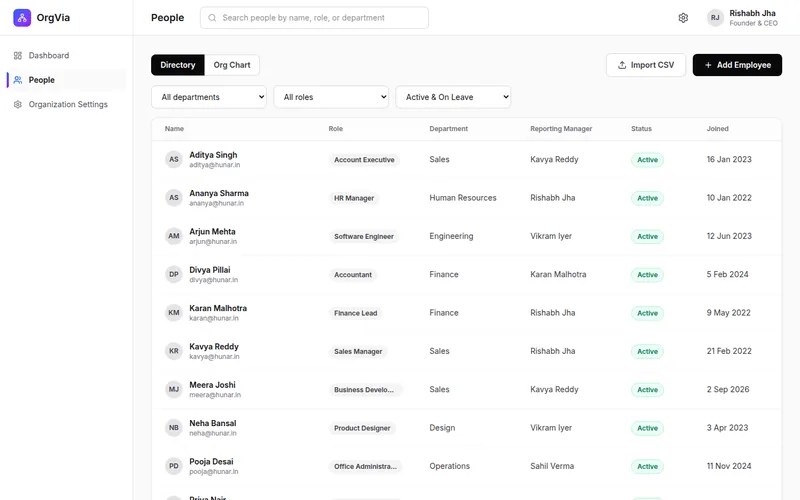
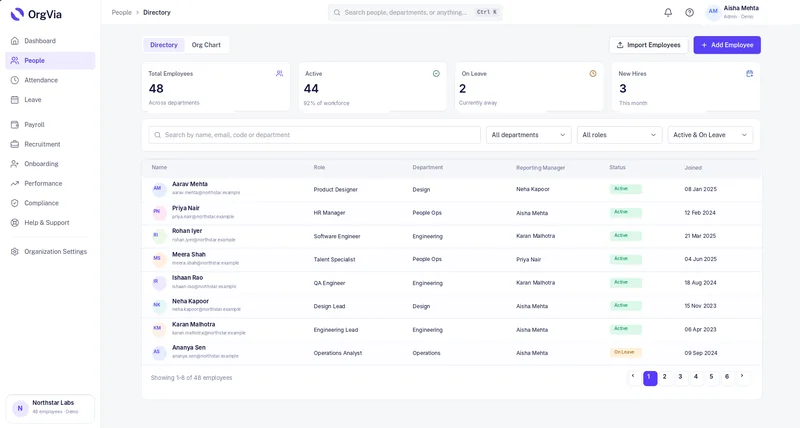
Use Northstar demo screenshots in product tour; drop outdated org chart tab

diff --git a/dist/index.html b/dist/index.html
@@ -31,7 +31,7 @@
     <p class="hero-note">Real product screens below, shown with demonstration data.</p>
   </div>
   <div class="hero-shot">
-    <figure class="frame"><div class="frame-bar" aria-hidden="true"><i></i><i></i><i></i><span>orgvia / people</span></div><img src="/assets/img/directory-1440.webp" srcset="/assets/img/directory-800.webp 800w, /assets/img/directory-1440.webp 1440w" sizes="(min-width: 1060px) 58vw, 100vw" width="1440" height="900" alt="OrgVia people directory listing employees with role, department, reporting manager, status and join date" fetchpriority="high"></figure>
+    <figure class="frame"><div class="frame-bar" aria-hidden="true"><i></i><i></i><i></i><span>orgvia / people</span></div><img src="/assets/img/directory-1440.webp" srcset="/assets/img/directory-800.webp 800w, /assets/img/directory-1440.webp 1440w" sizes="(min-width: 1060px) 58vw, 100vw" width="1440" height="770" alt="OrgVia people directory with headcount cards, filters and an employee table" fetchpriority="high"></figure>
     <div class="hero-chip" aria-hidden="true"><img src="/assets/img/mobile.webp" alt="" width="780" height="800" loading="lazy"></div>
   </div>
 </div>
@@ -44,19 +44,17 @@
 
 <section class="section tour" id="tour"><div class="wrap">
   <div class="section-head"><div><p class="kicker" data-reveal>The product</p><h2 class="title" data-reveal style="--d:.05s">See the work <em>itself</em>, not an illustration.</h2></div>
-  <p class="lede" data-reveal style="--d:.1s">These are screens from the OrgVia web app. Pick a view to look at it properly.</p></div>
+  <p class="lede" data-reveal style="--d:.1s">Screens from the OrgVia web app, shown with fictional demo records. Pick a view to look at it properly.</p></div>
   <div class="tour-grid" data-tabs data-reveal>
     <div class="tabs" role="tablist" aria-label="Product views">
       <button class="tab" role="tab" id="t1" aria-controls="p1"><b data-n="01">People directory</b><span>Search and filter by department, role and status. Open any profile from the list.</span></button>
-      <button class="tab" role="tab" id="t2" aria-controls="p2"><b data-n="02">Org chart</b><span>Reporting lines drawn from the same records, so structure never lives in a separate slide.</span></button>
-      <button class="tab" role="tab" id="t3" aria-controls="p3"><b data-n="03">Dashboard</b><span>Headcount, who is active or on leave, and one-tap clock-in for the signed-in employee.</span></button>
-      <button class="tab" role="tab" id="t4" aria-controls="p4"><b data-n="04">CSV import</b><span>Bring an existing employee list in without retyping it.</span></button>
+      <button class="tab" role="tab" id="t2" aria-controls="p2"><b data-n="02">Dashboard</b><span>Headcount, today’s attendance breakdown, pending actions, department overview and clock-in.</span></button>
+      <button class="tab" role="tab" id="t3" aria-controls="p3"><b data-n="03">CSV import</b><span>Bring an existing employee list in without retyping it.</span></button>
     </div>
     <div class="panels">
-      <div class="panel" role="tabpanel" id="p1" aria-labelledby="t1"><figure class="frame"><div class="frame-bar" aria-hidden="true"><i></i><i></i><i></i><span>orgvia / people / directory</span></div><img src="/assets/img/directory-1440.webp" srcset="/assets/img/directory-800.webp 800w, /assets/img/directory-1440.webp 1440w" sizes="(min-width: 1060px) 62vw, 100vw" width="1440" height="900" alt="People directory with search, department, role and status filters" loading="lazy" decoding="async"></figure><p class="caption">People directory: name, role, department, reporting manager, status and join date in one list.</p></div>
-      <div class="panel" role="tabpanel" id="p2" aria-labelledby="t2"><figure class="frame"><div class="frame-bar" aria-hidden="true"><i></i><i></i><i></i><span>orgvia / people / org chart</span></div><img src="/assets/img/orgchart-1440.webp" srcset="/assets/img/orgchart-800.webp 800w, /assets/img/orgchart-1440.webp 1440w" sizes="(min-width: 1060px) 62vw, 100vw" width="1440" height="900" alt="Organization chart showing reporting lines between employees" loading="lazy" decoding="async"></figure><p class="caption">Org chart generated from each employee’s reporting manager.</p></div>
-      <div class="panel" role="tabpanel" id="p3" aria-labelledby="t3"><figure class="frame"><div class="frame-bar" aria-hidden="true"><i></i><i></i><i></i><span>orgvia / dashboard</span></div><img src="/assets/img/dashboard-1440.webp" srcset="/assets/img/dashboard-800.webp 800w, /assets/img/dashboard-1440.webp 1440w" sizes="(min-width: 1060px) 62vw, 100vw" width="1440" height="900" alt="Dashboard with total employees, active, on leave and new hires, plus a clock-in panel" loading="lazy" decoding="async"></figure><p class="caption">Dashboard with headcount summary and a clock-in panel.</p></div>
-      <div class="panel" role="tabpanel" id="p4" aria-labelledby="t4"><figure class="frame"><div class="frame-bar" aria-hidden="true"><i></i><i></i><i></i><span>orgvia / people / import</span></div><img src="/assets/img/import-1440.webp" srcset="/assets/img/import-800.webp 800w, /assets/img/import-1440.webp 1440w" sizes="(min-width: 1060px) 62vw, 100vw" width="1440" height="900" alt="Import employees from CSV dialog" loading="lazy" decoding="async"></figure><p class="caption">CSV import for adding many employees at once.</p></div>
+      <div class="panel" role="tabpanel" id="p1" aria-labelledby="t1"><figure class="frame"><div class="frame-bar" aria-hidden="true"><i></i><i></i><i></i><span>orgvia / people / directory</span></div><img src="/assets/img/directory-1440.webp" srcset="/assets/img/directory-800.webp 800w, /assets/img/directory-1440.webp 1440w" sizes="(min-width: 1060px) 62vw, 100vw" width="1440" height="770" alt="People directory with headcount cards, search, filters and employee table" loading="lazy" decoding="async"></figure><p class="caption">People directory with headcount summary, filters and a paginated employee table.</p></div>
+      <div class="panel" role="tabpanel" id="p2" aria-labelledby="t2"><figure class="frame"><div class="frame-bar" aria-hidden="true"><i></i><i></i><i></i><span>orgvia / dashboard</span></div><img src="/assets/img/dashboard-1440.webp" srcset="/assets/img/dashboard-800.webp 800w, /assets/img/dashboard-1440.webp 1440w" sizes="(min-width: 1060px) 62vw, 100vw" width="1440" height="770" alt="Admin dashboard with headcount, today’s attendance, pending actions, department overview and recent activity" loading="lazy" decoding="async"></figure><p class="caption">Admin dashboard: attendance breakdown, check-in panel, pending actions and recent activity.</p></div>
+      <div class="panel" role="tabpanel" id="p3" aria-labelledby="t3"><figure class="frame"><div class="frame-bar" aria-hidden="true"><i></i><i></i><i></i><span>orgvia / people / import</span></div><img src="/assets/img/import-1440.webp" srcset="/assets/img/import-800.webp 800w, /assets/img/import-1440.webp 1440w" sizes="(min-width: 1060px) 62vw, 100vw" width="837" height="523" alt="Import employees dialog for uploading a CSV file" loading="lazy" decoding="async"></figure><p class="caption">CSV import for adding many employees at once.</p></div>
     </div>
   </div>
 </div></section>

diff --git a/dist/product/index.html b/dist/product/index.html
@@ -38,7 +38,7 @@
     <li><b>Administrators</b>: configure the organization and access.</li></ul>
     <p class="notice" style="margin-top:1.4rem">Modules are switched on per organization, so what you see depends on the setup agreed with your administrator.</p></div>
 </div></section>
-<section class="section" style="padding-top:0"><div class="wrap"><figure class="frame"><div class="frame-bar" aria-hidden="true"><i></i><i></i><i></i><span>orgvia / people / org chart</span></div><img src="/assets/img/orgchart-1440.webp" srcset="/assets/img/orgchart-800.webp 800w, /assets/img/orgchart-1440.webp 1440w" sizes="(min-width: 1240px) 1100px, 100vw" width="1440" height="900" alt="Org chart view in OrgVia" loading="lazy" decoding="async"></figure><p class="caption">The org chart is part of the people record, not a separate diagram.</p></div></section>
+<section class="section" style="padding-top:0"><div class="wrap"><figure class="frame"><div class="frame-bar" aria-hidden="true"><i></i><i></i><i></i><span>orgvia / dashboard</span></div><img src="/assets/img/dashboard-1440.webp" srcset="/assets/img/dashboard-800.webp 800w, /assets/img/dashboard-1440.webp 1440w" sizes="(min-width: 1240px) 1100px, 100vw" width="1440" height="770" alt="OrgVia admin dashboard" loading="lazy" decoding="async"></figure><p class="caption">The admin dashboard summarises headcount, attendance and pending work.</p></div></section>
 <section class="section" style="padding-top:0"><div class="wrap"><div class="cols3">
   <div data-reveal><h3>Start with people</h3><p>Add employees individually or import from CSV, then assign departments, roles and reporting managers.</p></div>
   <div data-reveal style="--d:.06s"><h3>Add workflows</h3><p>Turn on attendance, leave, payroll, hiring, onboarding, performance and compliance as your organization needs them.</p></div>
